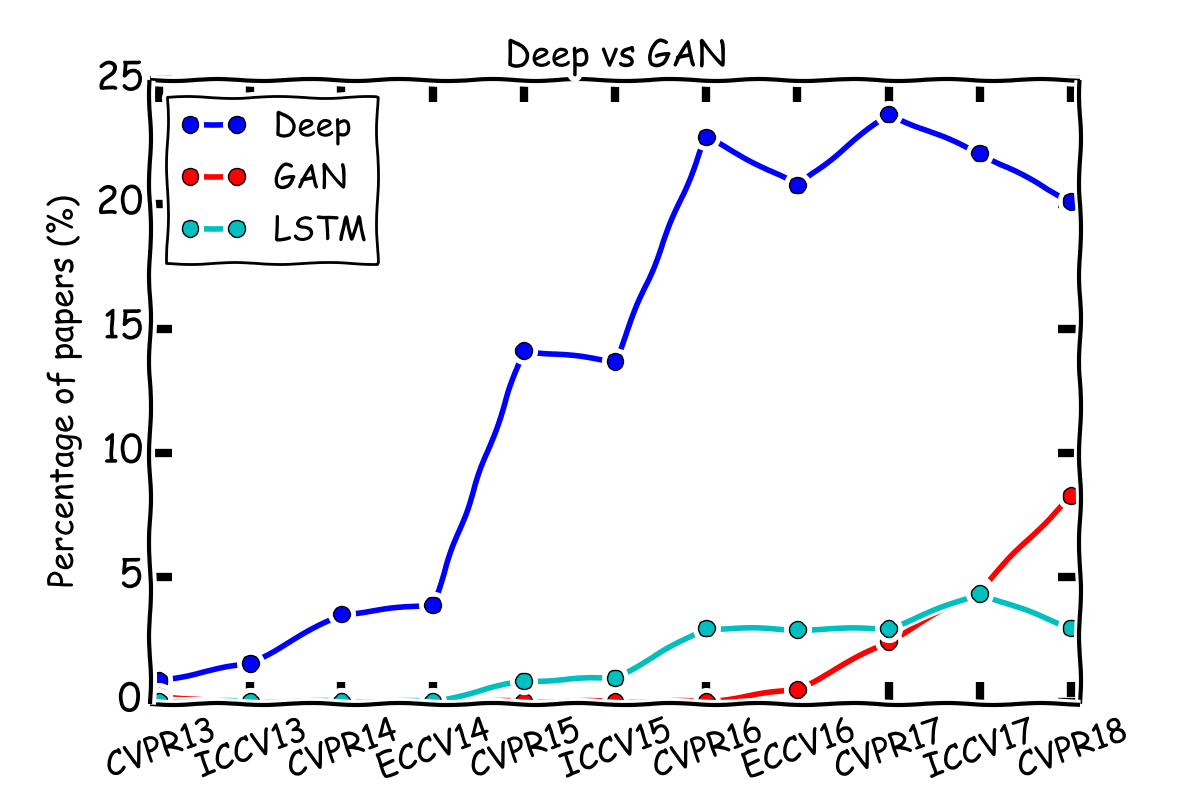
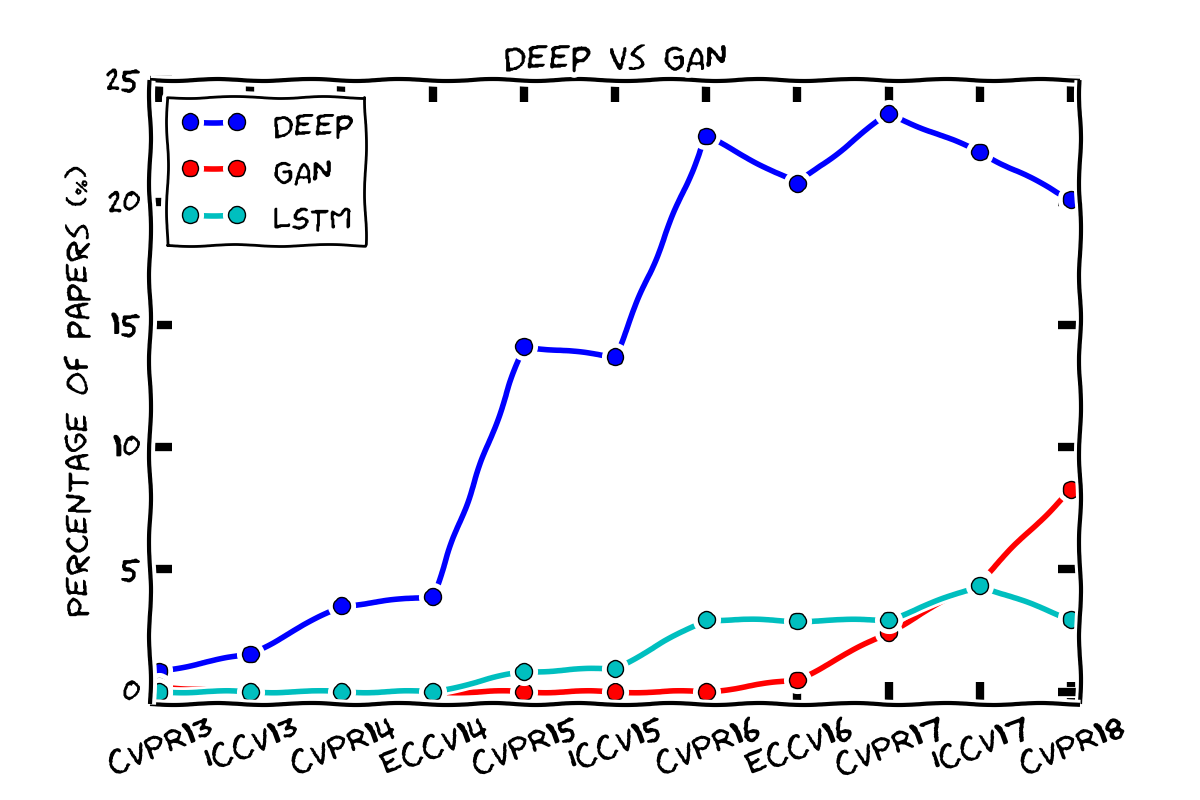
GAN post

diff --git a/_posts/2018-06-07-are-gans-the-new-deep.md b/_posts/2018-06-07-are-gans-the-new-deep.md
@@ -1,0 +1,21 @@
+---
+layout: post
+title: "CVPR 2018: Are GANs the new deep?"
+description: "CVPR 2018: Are GANs the new deep?"
+comments: true
+---
+
+
+It's that time of the year when a major vision conference [releases the papers to the public](http://openaccess.thecvf.com/CVPR2018.py), so it's time to check how deep learning is doing in their titles.<br>
+<br>
+At ICCV 2017, we realized that [GANs were growing strong]({{ site.url }}/gans-et-al-growing-strong/), and before we did a set [of]({{ site.url }}/dl-lstm-gan-evolution) [posts]({{ site.url }}/deep-learning-scraping/) of [the]({{ site.url }}/deep-learning-plateau/) [deep learning]({{ site.url }}/deep-learning-takes-over-again/) [saga]({{ site.url }}/deep-learning-evolution/).<br>
+<br>
+Let's update the plots to CVPR 2018, as always, using the XKCD style, as described in this [blog post]({{ site.url }}/xkcd-deep-learning/), but this time putting all trends together:
+<br />
+<img align="middle" width="500" src="{{ site.url }}/images/deep_vs_gan_evolution.png" alt="...">
+<br />
+<br />
+
+So, general deep-learning keywords are getting out of fashion (we take them for granted), but GANs are no longer such a minority (8\%!). LSTM, on the other hand, cannot keep up. Will GANs catch up with general deep learning?<br />
+<br />
+Are GANs the new Deep?
